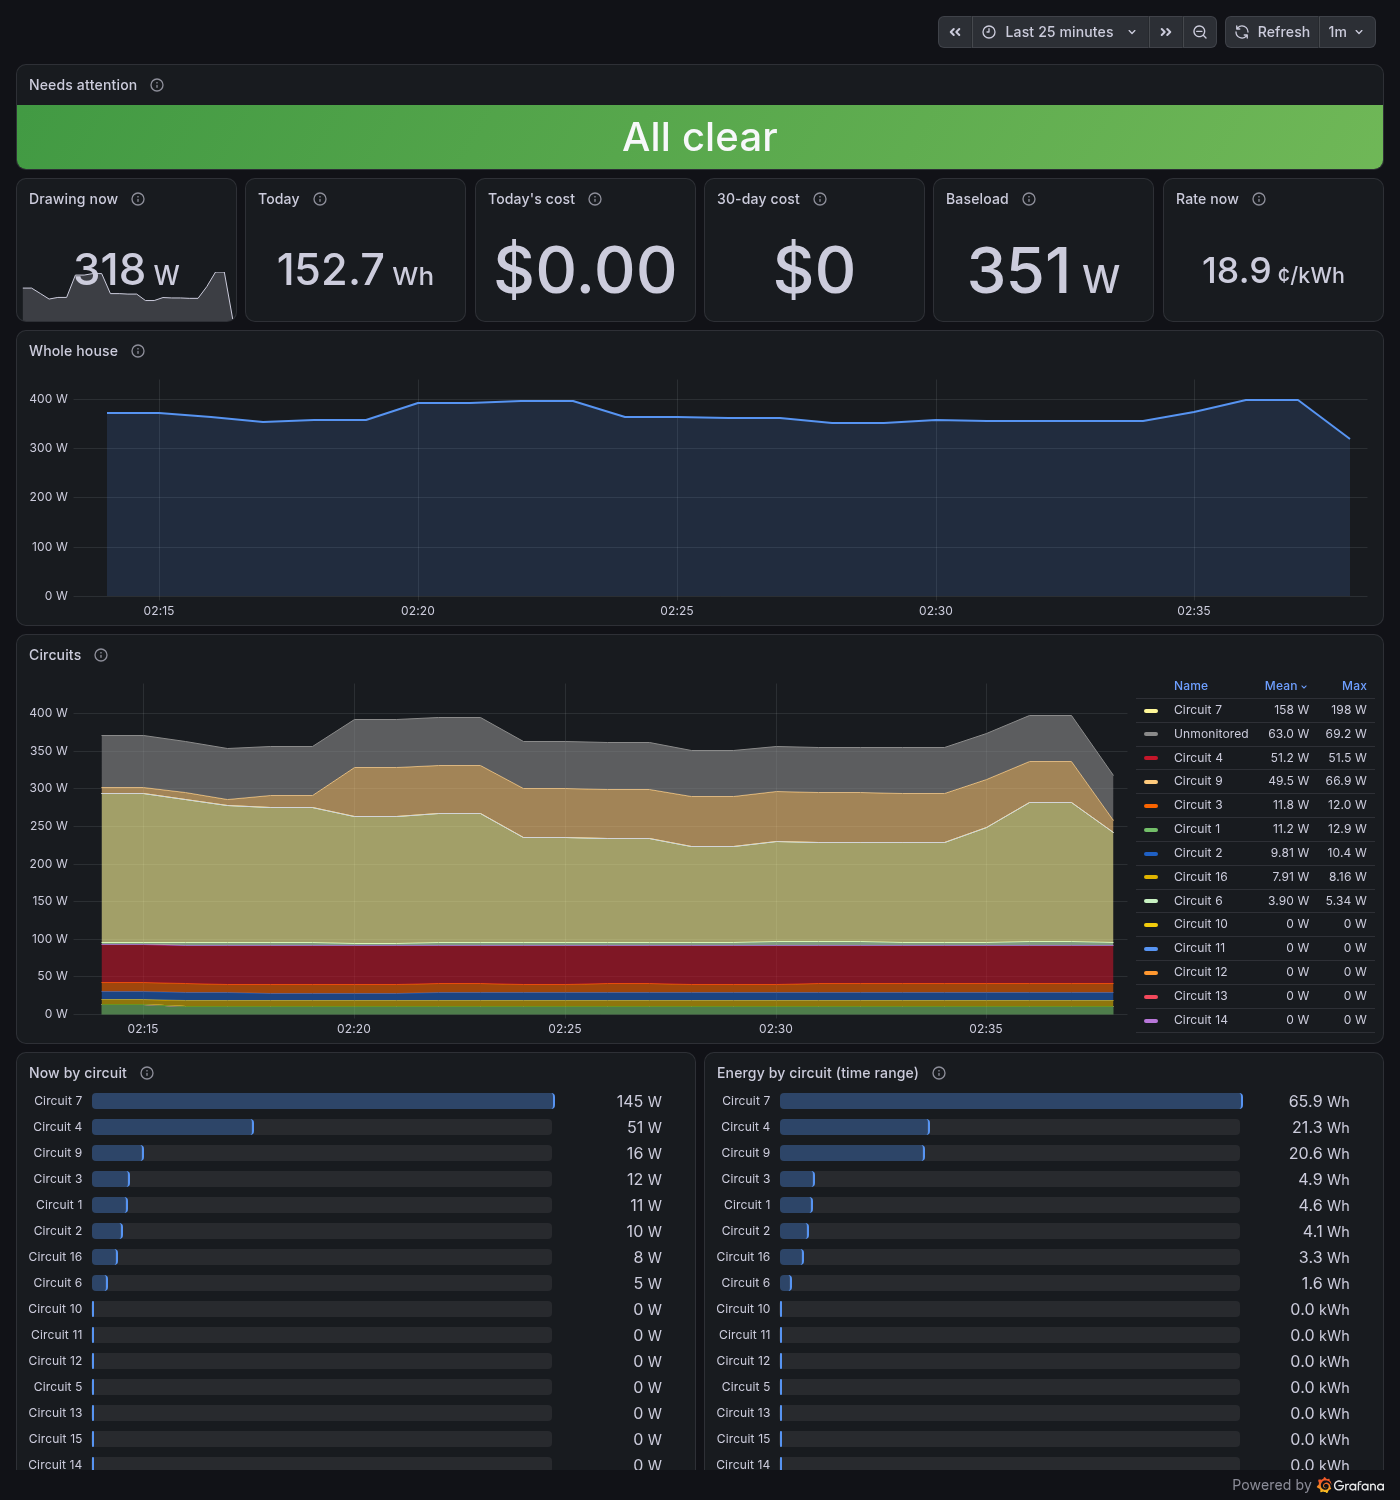
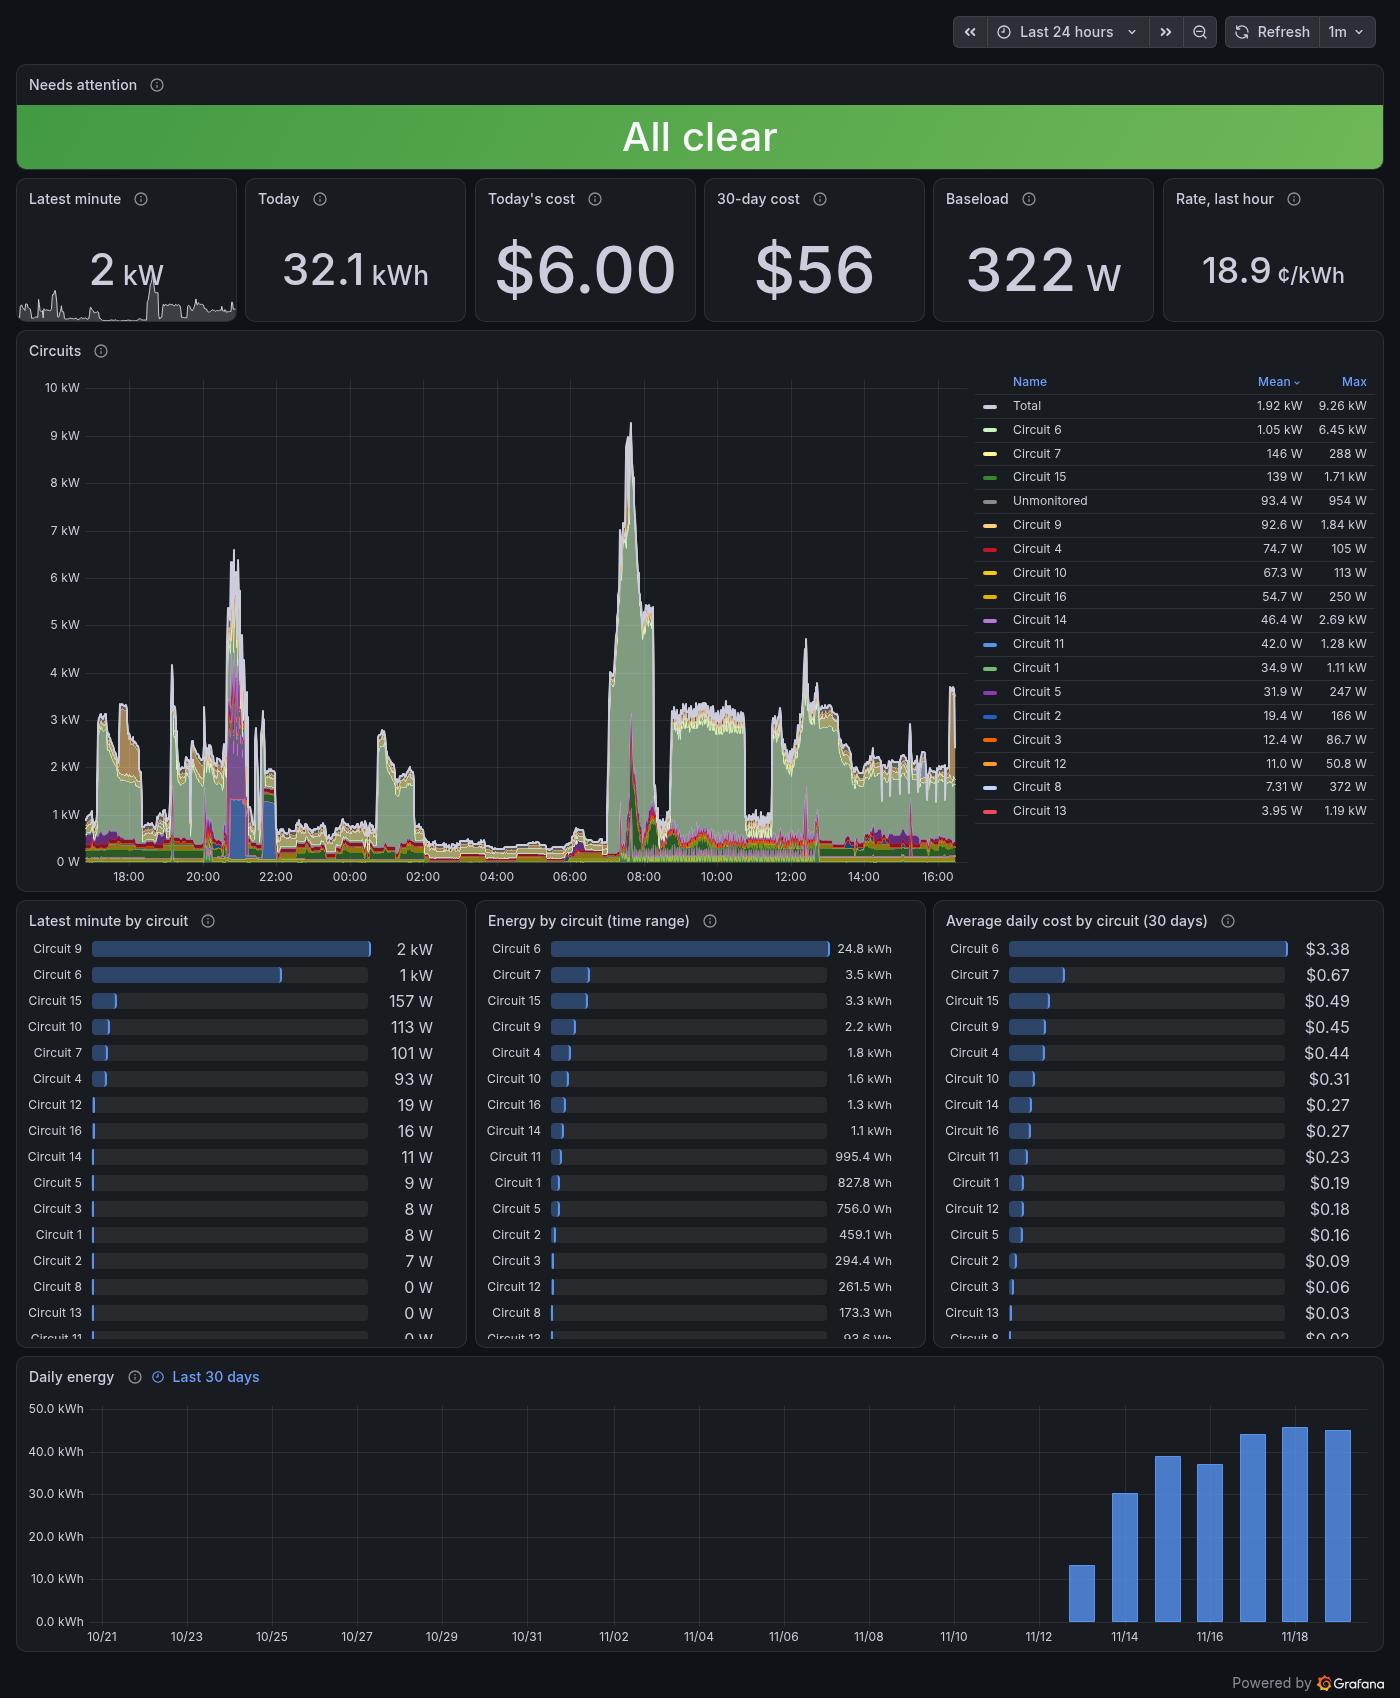
docs: new dashboard screenshot (Total line, daily cost by circuit)
Circuit names replaced with numbers, as before.

diff --git a/README.md b/README.md
@@ -19,7 +19,7 @@ and the poll rate only decides how far behind the data runs.
 The Grafana dashboard in `grafana/emporiad.json` (circuit names replaced with
 numbers):
 
-![Grafana dashboard: attention strip, latest minute, energy and cost today, baseload, rate, whole-house and stacked per-circuit power, power and energy by circuit](docs/screenshots/grafana.png)
+![Grafana dashboard: attention strip, latest minute, energy and cost today, baseload, rate, stacked per-circuit power with a total line, power, energy and average daily cost by circuit](docs/screenshots/grafana.png)
 
 ## What it reads
 
